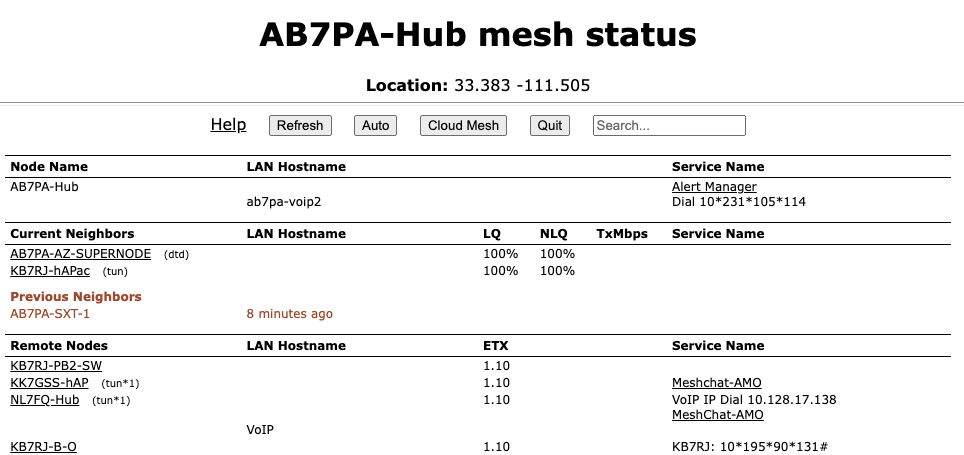
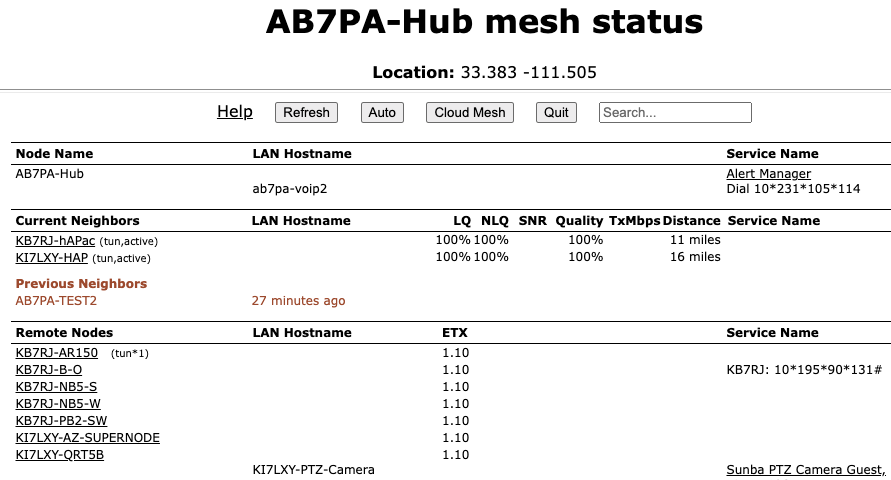
change mesh and node status docs (#338)

diff --git a/arednGettingStarted/mesh_status.rst b/arednGettingStarted/mesh_status.rst
@@ -14,9 +14,6 @@ The **Mesh Status** page lists mesh nodes and link quality information, along wi
 
 - The **Search** field allows you to filter the *Mesh Status* display by any keywords of your choice. The display will be limited to showing only nodes which match the keywords you enter. As you type each character from your keyboard into the search fields, the display will change to show only the entries that match your character or string. The filter is case insensitive, so it will find both upper and lower case entries for the characters you enter. If you press the **Refresh** button on the *Mesh Status* display, the search field will be cleared.
 
-Mesh Status Display Sections
-^^^^^^^^^^^^^^^^^^^^^^^^^^^^
-
 .. image:: _images/mesh-status.png
    :alt: Mesh Status
    :align: center
@@ -24,35 +21,65 @@ Mesh Status Display Sections
 |
 
 Node Name
-  This shows your node as well as any connected LAN hosts and the advertised services available on your node and hosts. You can click any available web links to navigate to the services on your node or LAN hosts. This will be true for any available services in the *Current Neighbors* or *Remote Nodes* sections, too. Each node will be highlighted as you hover your cursor over it. This gives a visual indicator for any column entries that are part of the row over which you are hovering.
+^^^^^^^^^
 
-  If you have any hosts for which you selected *Do Not Propagate* in the **DHCP Reservations List**, those hosts will be displayed in a light gray color only on your node's *LAN Hostname* column. If you created any **DNS Aliases** for your hosts, those aliases will be displayed in a light orange color only on your node's *LAN Hostname* column. All other hosts will be displayed in the default color for the theme that you are using.
+This shows your node as well as any connected LAN hosts and the advertised services available on your node and hosts. You can click any available web links to navigate to the services on your node or LAN hosts. This will be true for any available services in the *Current Neighbors* or *Remote Nodes* sections, too. Each node will be highlighted as you hover your cursor over it. This gives a visual indicator for any column entries that are part of the row over which you are hovering.
+
+If you have any hosts for which you selected *Do Not Propagate* in the **DHCP Reservations List**, those hosts will be displayed in a light gray color only on your node's *LAN Hostname* column. If you created any **DNS Aliases** for your hosts, those aliases will be displayed in a light orange color only on your node's *LAN Hostname* column. All other hosts will be displayed in the default color for the theme that you are using.
 
 Current Neighbors
-  This shows a list of *Neighbor Nodes* that are directly linked with your node, meaning they are only one network "hop" distant. These nodes may be connected via :abbr:`RF (Radio Frequency)`, :abbr:`DtD (Device to Device)` link, or a tunnel over an Internet connection. It also shows any LAN hosts on your current neighbors as well as any advertised services available on those nodes and hosts.
+^^^^^^^^^^^^^^^^^
 
+This shows a list of *Neighbor Nodes* that are linked with your node. These nodes may be connected via radio, Device-to-Device link (dtd), a cross-link (xlink) or a tunnel (tun) over an Internet connection. The display also shows any LAN hosts on your current neighbors as well as any advertised services available on those nodes and hosts.
+
+Link Quality Statistics
   There are several link quality statistics displayed for each connected node.
 
-  - ``LQ`` or Link Quality is your node's view of the percent of `OLSR (Optimized Link State Routing protocol) <https://en.wikipedia.org/wiki/Optimized_Link_State_Routing_Protocol>`_ packets received from the neighbor node. These packets exchange mesh routing and advertised services information, and they include a sequence number that is used to identify missing packets. For example, if 7 of 10 packets sent by the neighbor were received, then the probability for a successful packet transmission from this neighbor is 7/10 = 0.7 = 70%. Be aware that the *Quality* metric on the *Neighbor Status* display is calculated differently, so there may not be a perfect alignment when comparing the two quality metrics.
+  - ``LQ`` or Link Quality is your node's view of the percent of `OLSR (Optimized Link State Routing protocol) <https://en.wikipedia.org/wiki/Optimized_Link_State_Routing_Protocol>`_ packets received from the neighbor node. These packets exchange mesh routing and advertised services information, and they include a sequence number that is used to identify missing packets. For example, if 7 of 10 packets sent by the neighbor were received, then the probability for a successful packet transmission from this neighbor is 7/10 = 0.7 = 70%. Be aware that the *Quality* metric is calculated differently, so there may not be a perfect alignment when comparing the two quality metrics.
 
   - ``NLQ`` or Neighbor Link Quality is the neighbor node's view of the percent of :abbr:`OLSR (Optimized Link State Routing protocol)` packets received from your node. This indicates the quality of the link from the neighbor's side.
 
-  - ``TxMbps`` or Transmit Megabits per Second is an estimate of the data rate achieved across any :abbr:`RF (Radio Frequency)` link with a neighbor node. This column may show zero if the data being transmitted between these nodes is not sufficient for the metric to be calculated.
+  - ``SNR`` or Signal-to-Noise Ratio is expressed in decibels (dB). It represents the level of signal which is detectable over the background noise floor, so a higher number is better. *SNR* is shown for both sides of any radio links (local SNR / remote SNR).
+
+  - ``Quality`` is the Link Quality calculated as the moving average of (total sent packets) divided by (total sent packets plus retransmissions), expressed as a percent. For example, if the node had to send every packet twice for it to be successfully received, the link quality would be 50%. An additional penalty is subtracted if the neighbor node is unpingable, which is explained in the *Advanced Configuration* section under "Ping Penalty". Be aware that the *LQ/NLQ* metrics are calculated differently, so there may not be a perfect alignment when comparing the two quality metrics.
+
+  - ``TxMbps`` or Transmit Megabits per Second is an estimate of the data rate achieved across any radio (RF) link with a neighbor node. This column may show zero if the data being transmitted between these nodes is not sufficient for the metric to be calculated.
+
+  - ``Distance`` is the calculated distance between your node and each remote node. This calculation is based on the GPS coordinates (Lat/Lon) that were entered on each node. If no GPS coordinates were entered, then the distance cannot be calculated and that metric will not be considered in the LQM improvement process.
 
   - ``Service Name`` is the column which displays any available services on the neighbor node or its LAN hosts. You can click on service links to navigate to the webpage for those services.
 
-  In addition to the neighbor node name, there may be a text abbreviation in parentheses that tells how the neighbor node is connected.
+In addition to the neighbor node name, there are text abbreviations in parentheses that tells how the neighbor node is connected and the status of the link.
 
-  - ``(dtd)`` indicates a *Device to Device* connection (typically using an Ethernet cable) between the nodes.
+Link Type
+  - ``rf``: Note that there is no link type identifier for radio links, so links without one of the identifiers below can be considered ``rf`` links.
+  - ``dtd``: indicates a direct *Device to Device* connection (typically using an Ethernet cable) between the nodes.
+  - ``tun``: indicates the path to the neighbor node is over an Internet tunnel. ``(tun*?)`` next to a mesh node in the *Remote Nodes* column indicates the node has tunnel links over the Internet to connect mesh islands together. ``?`` is a number indicating the number of tunnel connections on that node.
+  - ``xlink``: indicates a connection between the nodes that traverses cross-linked devices.
 
-  - ``(xlink)`` indicates a connection between the nodes that traverses cross-linked devices.
+Link Status
+  - ``wan``: the node has been configured as a *Mesh Gateway*. Typically this is a gateway to the Internet, but it may also be to another isolated network.
+  - ``pending``: LQM is collecting data and evaluating the link.
+  - ``active``: LQM determined that the link is viable and can be used.
+  - ``blocked``: LQM determined that the link is unusable and has blocked it from use.
+  - ``blocked - distance``: LQM determined that the remote node is either too close or too distant, based on the Min and Max Distance settings described in the *Advanced Configuration* section.
+  - ``blocked - signal``: LQM determined that the SNR on the link is too low to reliably pass data, based on the Min SNR setting described in the *Advanced Configuration* section.
+  - ``blocked - retries``: LQM determined that the retransmission rate is too high to reliably pass data.
+  - ``blocked - latency``: LQM determined that the link latency is too high to reliably pass data.
+  - ``blocked - dtd``: LQM blocks the RF interface on any nodes to which a DtD link also exists.
+  - ``blocked - dup``: LQM blocks a link in cases when your node has an RF link to other nodes which themselves connect to each other via DtD. This can occur when there are multiple radios at a site using the same channel. The best remote node is chosen as the RF link for your node but the other possible RF connections are blocked as duplicates.
+  - ``blocked - user``: LQM will block any node which you enter in the *User Blocked Nodes* field described in the *Advanced Configuration* section.
+  - ``hidden``: LQM will display nodes that are out of range of your node but which are able to access a common intermediary node.
+  - ``exposed``: LQM will display nodes that can reach other nodes which are hidden from your node.
+  - ``idle``: LQM has determined that the link is usable and would be ``active`` but the node routing table does not yet have a route for sending traffic across the link.
+  - ``disconnected``: This RF Neighbor is no longer online.
 
-  - ``(tun)`` indicates the path to the neighbor node is over an Internet tunnel. ``(tun*?)`` next to a mesh node in the *Remote Nodes* column indicates the node has tunnel links over the Internet to connect mesh islands together. ``?`` is a number indicating the number of tunnel connections on that node.
-
-  - ``(wan)`` indicates the node has been configured as a *Mesh Gateway*. Typically this is a gateway to the Internet, but it may also be to another isolated network.
+  You can refresh the *Link Status* values by pressing the *Refresh* button or by selecting the *Auto* button to automatically refresh the display. Links whose quality has improved may be activated, while links whose quality has worsened may be blocked.
 
 Previous Neighbors
   If there were any Current Neighbors which disconnected within the last 24 hours they will be listed below any nodes that are currently connected. It shows the node name or IP address, as well as how long it has been since a node was actively connected to your node.
 
 Remote Nodes
-  This section lists the other nodes on the network that are two or more hops away from your node. Advertised services on nodes and their LAN hosts are also listed. Remote Nodes are sorted by their ``ETX`` or *Expected Transmission* metric. :abbr:`ETX (Expected TX metric)` is an estimate of the number of :abbr:`OLSR (Optimized Link State Routing protocol)` packets that must be sent in order to receive a round trip acknowledgement, and it is often referred to as *link cost*. When sending data the :abbr:`OLSR (Optimized Link State Routing)` protocol selects the least cost route based on the lowest :abbr:`ETX (Expected TX metric)` in the direction of the final destination.
+^^^^^^^^^^^^
+
+This section lists the other nodes on the network that are two or more hops away from your node. Advertised services on nodes and their LAN hosts are also listed. Remote Nodes are sorted by their ``ETX`` or *Expected Transmission* metric. :abbr:`ETX (Expected TX metric)` is an estimate of the number of :abbr:`OLSR (Optimized Link State Routing protocol)` packets that must be sent in order to receive a round trip acknowledgement, and it is often referred to as *link cost*. When sending data the :abbr:`OLSR (Optimized Link State Routing)` protocol selects the least cost route based on the lowest :abbr:`ETX (Expected TX metric)` in the direction of the final destination.

diff --git a/arednGettingStarted/node_status.rst b/arednGettingStarted/node_status.rst
@@ -21,9 +21,6 @@ Refresh
 Mesh Status
    Opens the **Mesh Status** page showing the neighbor nodes and remote nodes visible on the mesh network, as well as what services are being provided by those nodes.
 
-Neighbor Status
-  If you have *Link Quality Manager* (LQM) enabled, you will also see a button which takes you to the **Neighbor Status** display. LQM is enabled/disabled from the **Advanced Configuration** page, and the settings for LQM are described in the **Configuration Deep Dive** section. The basic settings for *Link Quality Manager* are described below. The theory behind its operation is discussed in the AREDN |trade| *Link Quality Manager* section of the **How-To Guide**.
-
 WiFi Scan
    Displays a list of other 802.11 signals within range of your node. The 802.11 signals may include Access Points, neighbor nodes, and other mesh networks (foreign ad-hoc networks). WiFi Scan is described in more detail below.
 
@@ -79,62 +76,6 @@ If you click and drag your mouse across a region of the chart, the display will 
    :align: left
 
 On the left of the Realtime Graph there is an **SNR Sound** control. Clicking the *On* button will cause your computer to emit a tone that corresponds to the relative SNR level, with higher pitch tones indicating better SNR. This feature was added in order to provide an audio queue to operators in the process of aligning directional antennas. When your antenna reaches a position at which the highest pitch tone is heard you can lock it down without having to look at the signal graph display, knowing that you are receiving the best signal available. You can also adjust the tone pitch and volume with the sliders on the sound control.
-
-LQM Neighbor Status
--------------------
-
-If you enabled *Link Quality Manager* (LQM), the *Neighbor Status* button will be visible and you can click it to navigate to the LQM *Neighbor Status* display.
-
-.. image:: _images/lqm-neigh-status-btn.png
-   :alt: LQM Neighbor Status button
-   :align: center
-
-*Neighbor Status* displays a table of neighbor nodes, their link quality metrics, and any actions *Link Quality Manager* has taken to improve the communication between nodes.
-
-.. image:: _images/lqm-neigh-status.png
-   :alt: LQM Neighbor Status display
-   :align: center
-
-|
-
-Neighbor
-  The remote neighbor node name with a clickable link to open that node's *Status* display.
-
-Link
-  The type of link your node has with each remote node. Valid link types are ``RF`` for a radio link, ``DtD`` for a direct device-to-device connection, ``Xlink`` for a connection over cross-linked devices, and ``Tunnel`` or ``Wireguard`` for tunnel links.
-
-SNR
-  The Signal-to-Noise ratio in dB for both sides of any radio links (local SNR / remote SNR).
-
-Distance
-  The calculated distance between your node and each remote node. This calculation is based on the GPS coordinates (Lat/Lon) that were entered on each node.
-
-  .. note:: If no GPS coordinates were entered, then the distance cannot be calculated and that metric will not be considered in the LQM improvement process.
-
-Quality
-  The Link Quality expressed as a percent. This is calculated as the moving average of (total sent packets) divided by (total sent packets plus retransmissions). For example, if the node had to send every packet twice for it to be successfully received, the link quality would be 50%. Be aware that the *LQ/NLQ* metrics on the *Mesh Status* display are calculated differently, so there may not be a perfect alignment when comparing the two quality metrics.
-
-  An additional penalty is subtracted from Link Quality if the neighbor node is unpingable, which is explained in the *Advanced Configuration* section under "Ping Penalty".
-
-Status
-  The current status of each radio link. Valid status identifiers include:
-
-  - *pending*: LQM is collecting data and evaluating the link.
-  - *active*: LQM determined that the link is viable and can be used.
-  - *blocked*: LQM determined that the link is unusable and has blocked it from use.
-  - *blocked - distance*: LQM determined that the remote node is either too close or too distant, based on the Min and Max Distance settings described in the *Advanced Configuration* section.
-  - *blocked - signal*: LQM determined that the SNR on the link is too low to reliably pass data, based on the Min SNR setting described in the *Advanced Configuration* section.
-  - *blocked - retries*: LQM determined that the retransmission rate is too high to reliably pass data.
-  - *blocked - latency*: LQM determined that the link latency is too high to reliably pass data.
-  - *blocked - dtd*: LQM blocks the RF interface on any nodes to which a DtD link also exists.
-  - *blocked - dup*: LQM blocks a link in cases when your node has an RF link to other nodes which themselves connect to each other via DtD. This can occur when there are multiple radios at a site using the same channel. The best remote node is chosen as the RF link for your node but the other possible RF connections are blocked as duplicates.
-  - *blocked - user*: LQM will block any node which you enter in the *User Blocked Nodes* field described in the *Advanced Configuration* section.
-  - *hidden*: LQM will display nodes that are out of range of your node but which are able to access a common intermediary node.
-  - *exposed*: LQM will display nodes that can reach other nodes which are hidden from your node.
-  - *idle*: LQM has determined that the link is usable and would be *active* but the node routing table does not yet have a route for sending traffic across the link.
-  - *disconnected*: This RF Neighbor is no longer online.
-
-The *Neighbor Status* table will be refreshed automatically every minute as LQM evaluates your node's radio links on an ongoing basis. Links whose quality has improved may be activated, while links whose quality has worsened may be blocked. If an existing node link goes offline, it will age out of the list within about an hour. To refresh the neighbor list on demand you can click the **Refresh** button. If you want to return to the *Node Status* display, click the **Quit** button.
 
 WiFi Scan
 ---------
